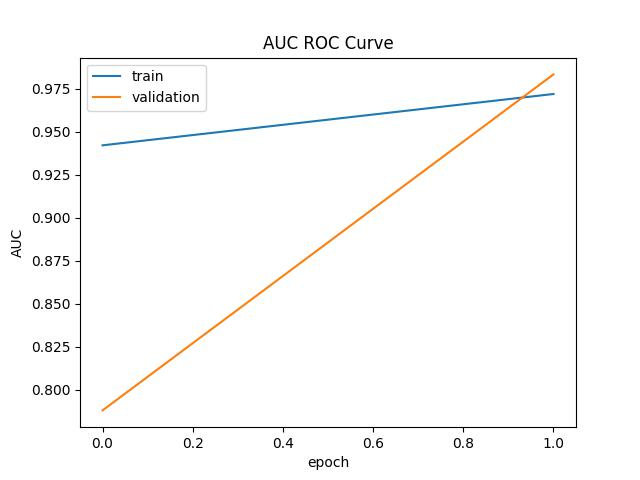
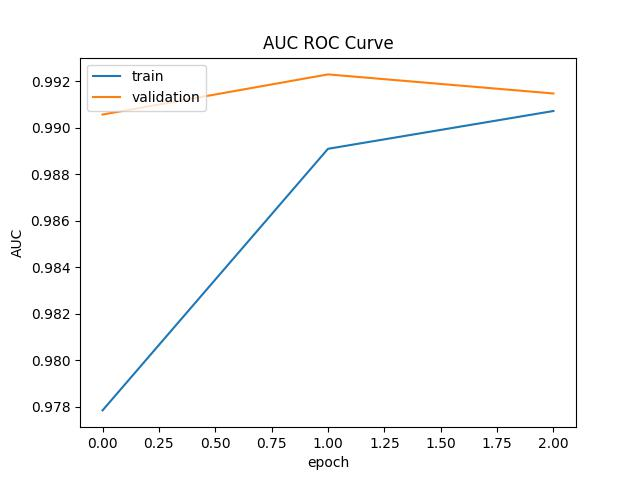
refined model config

diff --git a/src/model_training.py b/src/model_training.py
@@ -2,10 +2,11 @@ import matplotlib.pyplot as plt
 import numpy as np
 
 import tensorflow as tf
-from keras.layers import Dense, Input, LSTM, Dropout
+from keras.layers import Dense, Input, LSTM, Dropout, Bidirectional
 from keras.layers import GlobalMaxPool1D, Embedding
 from keras.models import Model
-from keras.callbacks import ModelCheckpoint
+from keras.callbacks import EarlyStopping
+from tensorflow.keras.optimizers import Adam
 from config import *
 from data_preprocess import data_preprocess
 import yaml
@@ -21,9 +22,7 @@ batch_size = params2["batch_size"]
 epochs = params2["epochs"]
 val_split = params2["val_split"]
 # -------------------------------------------------------------------------
-class_weight = {0: 0.000458, 1: 0.004389, 2: 0.000829,
-                3: 0.014644, 4: 0.000889, 5: 0.004982,
-                6: 0.000049}
+# class_weight = {0: 0.1590, 1: 1.4905, 2: 2.6980, 3: 2.8939, 4: 14.2920, 5: 16.2248, 6: 47.69}
 
 
 def build_lstm_model(data, target_classes, embeddings, word_index):
@@ -32,32 +31,28 @@ def build_lstm_model(data, target_classes, embeddings, word_index):
                                    input_length=max_seq_length,
                                    trainable=False,
                                    name='embeddings')(inp)
-    x = LSTM(40, return_sequences=True, name='lstm_layer')(embedded_sequences)
+    x = Bidirectional(LSTM(40, return_sequences=True, name='bilstm_layer'))(embedded_sequences)
     x = GlobalMaxPool1D()(x)
     x = Dropout(0.1)(x)
-    x = Dense(30, activation="relu", kernel_initializer='he_uniform')(x)
+    x = Dense(20, activation="relu", kernel_initializer='he_uniform')(x)
     x = Dropout(0.1)(x)
-    preds = Dense(7, activation="sigmoid", kernel_initializer='glorot_uniform')(x)
+    outs = Dense(7, activation="sigmoid", kernel_initializer='glorot_uniform')(x)
     # -------------------------------------------------------------------------
-    model = Model(inputs=inp, outputs=preds)
+    model = Model(inputs=inp, outputs=outs)
     model.compile(loss='binary_crossentropy',
-                  optimizer='adam',
+                  optimizer=Adam(),
                   metrics=[tf.keras.metrics.AUC()])
     # -------------------------------------------------------------------------
     model.summary()
     # -------------------------------------------------------------------------
-    checkpoint = ModelCheckpoint(filepath=MODEL_LOCATION,  # saves the 'best' model
-                                 monitor='val_loss',
-                                 save_best_only=True,
-                                 mode='min',
-                                 save_weights_only=True)
+    early_stopping = EarlyStopping(monitor='val_loss', verbose=1, patience=3, restore_best_weights=True)
     # -------------------------------------------------------------------------
     history = model.fit(data,
                         target_classes,
-                        class_weight=class_weight,
                         batch_size=batch_size,
                         epochs=epochs,
                         validation_split=val_split,
+                        callbacks=[early_stopping],
                         verbose=1)
     # -------------------------------------------------------------------------
     model.save(MODEL_LOCATION)

diff --git a/src/model_evaluation.py b/src/model_evaluation.py
@@ -1,21 +1,15 @@
-from sklearn.metrics import roc_auc_score
 import numpy as np
 from keras.models import load_model
-from config import *
 from data_preprocess import data_preprocess
 import json
 
 
 def evaluate(model, x_test, y_truth):
-    predictions = model.predict(x_test)
-    aucs = []
-    for j in range(len(DETECTION_CLASSES)):
-        auc = roc_auc_score(y_truth[:, j], predictions[:, j])
-        aucs.append(auc)
-    print(aucs)
-    print(f'Average ROC_AUC Score: {np.mean(aucs)}')
+    score = model.evaluate(x_test, y_truth, verbose=1)
+    print("Test Score:", score[0])
+    print("Test AUC:", score[1])
     with open("scores.json", "w") as fd:
-        json.dump({"auc": np.mean(aucs)}, fd, indent=4)
+        json.dump({"auc": score[1]}, fd, indent=4)
 
 
 if __name__ == '__main__':
